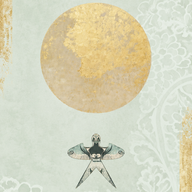
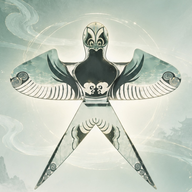
主屏幕图标换成卿卿给的沙燕风筝
- static/icon-source.jpg 是原图；tools/make_icons.py 生成四张图标：
  iPhone 和普通图标用整张图（系统自己切圆角），安卓 maskable 的燕子缩到八成，四周垫糊开的原图
- 图标网址带上内容指纹（?v=…），重新添加到主屏幕时 Safari 不会拿缓存里的旧图
- 开发说明写清：换图标要删掉主屏幕图标重新添加，删之前先同步、导出备份、记得暗号

diff --git a/index.html b/index.html
@@ -13,8 +13,8 @@
 <meta name="referrer" content="no-referrer">
 <title>开封府</title>
 <link rel="manifest" href="./manifest.webmanifest">
-<link rel="apple-touch-icon" href="./icons/apple-touch-icon.png">
-<link rel="icon" type="image/png" sizes="192x192" href="./icons/icon-192.png">
+<link rel="apple-touch-icon" href="./icons/apple-touch-icon.png?v=fff40402a0">
+<link rel="icon" type="image/png" sizes="192x192" href="./icons/icon-192.png?v=ba7c5817ef">
 <link rel="preload" as="image" href="./assets/splash.webp">
 <link rel="stylesheet" href="./assets/app-f98e73b1da.css">
 </head>

diff --git a/source/tools/make_icons.py b/source/tools/make_icons.py
@@ -1,0 +1,31 @@
+# 主屏幕图标：python3 tools/make_icons.py（在 source/ 里跑）
+# 原图是 static/icon-source.jpg（卿卿给的沙燕风筝，方图），生成 static/icons/ 里的四张。
+# iPhone 用整张图，系统自己切圆角；安卓的 maskable 只露中间一个圆，燕子缩到八成，四周用糊开的原图垫着。
+from PIL import Image, ImageDraw, ImageFilter
+
+SRC = "static/icon-source.jpg"
+OUT = "static/icons/"
+src = Image.open(SRC).convert("RGB")
+
+
+def full(size):
+    return src.resize((size, size), Image.LANCZOS)
+
+
+def padded(size, scale=0.8, blur=18):
+    bg = src.resize((size, size), Image.LANCZOS).filter(ImageFilter.GaussianBlur(blur))
+    inner = int(round(size * scale))
+    feather = max(4, int(inner * 0.06))
+    mask = Image.new("L", (inner, inner), 0)
+    ImageDraw.Draw(mask).rectangle([feather, feather, inner - feather, inner - feather], fill=255)
+    mask = mask.filter(ImageFilter.GaussianBlur(feather / 2))
+    off = (size - inner) // 2
+    bg.paste(src.resize((inner, inner), Image.LANCZOS), (off, off), mask)
+    return bg
+
+
+full(180).save(OUT + "apple-touch-icon.png", optimize=True)
+full(192).save(OUT + "icon-192.png", optimize=True)
+full(512).save(OUT + "icon-512.png", optimize=True)
+padded(512).save(OUT + "icon-maskable-512.png", optimize=True)
+print("图标生成好了")
